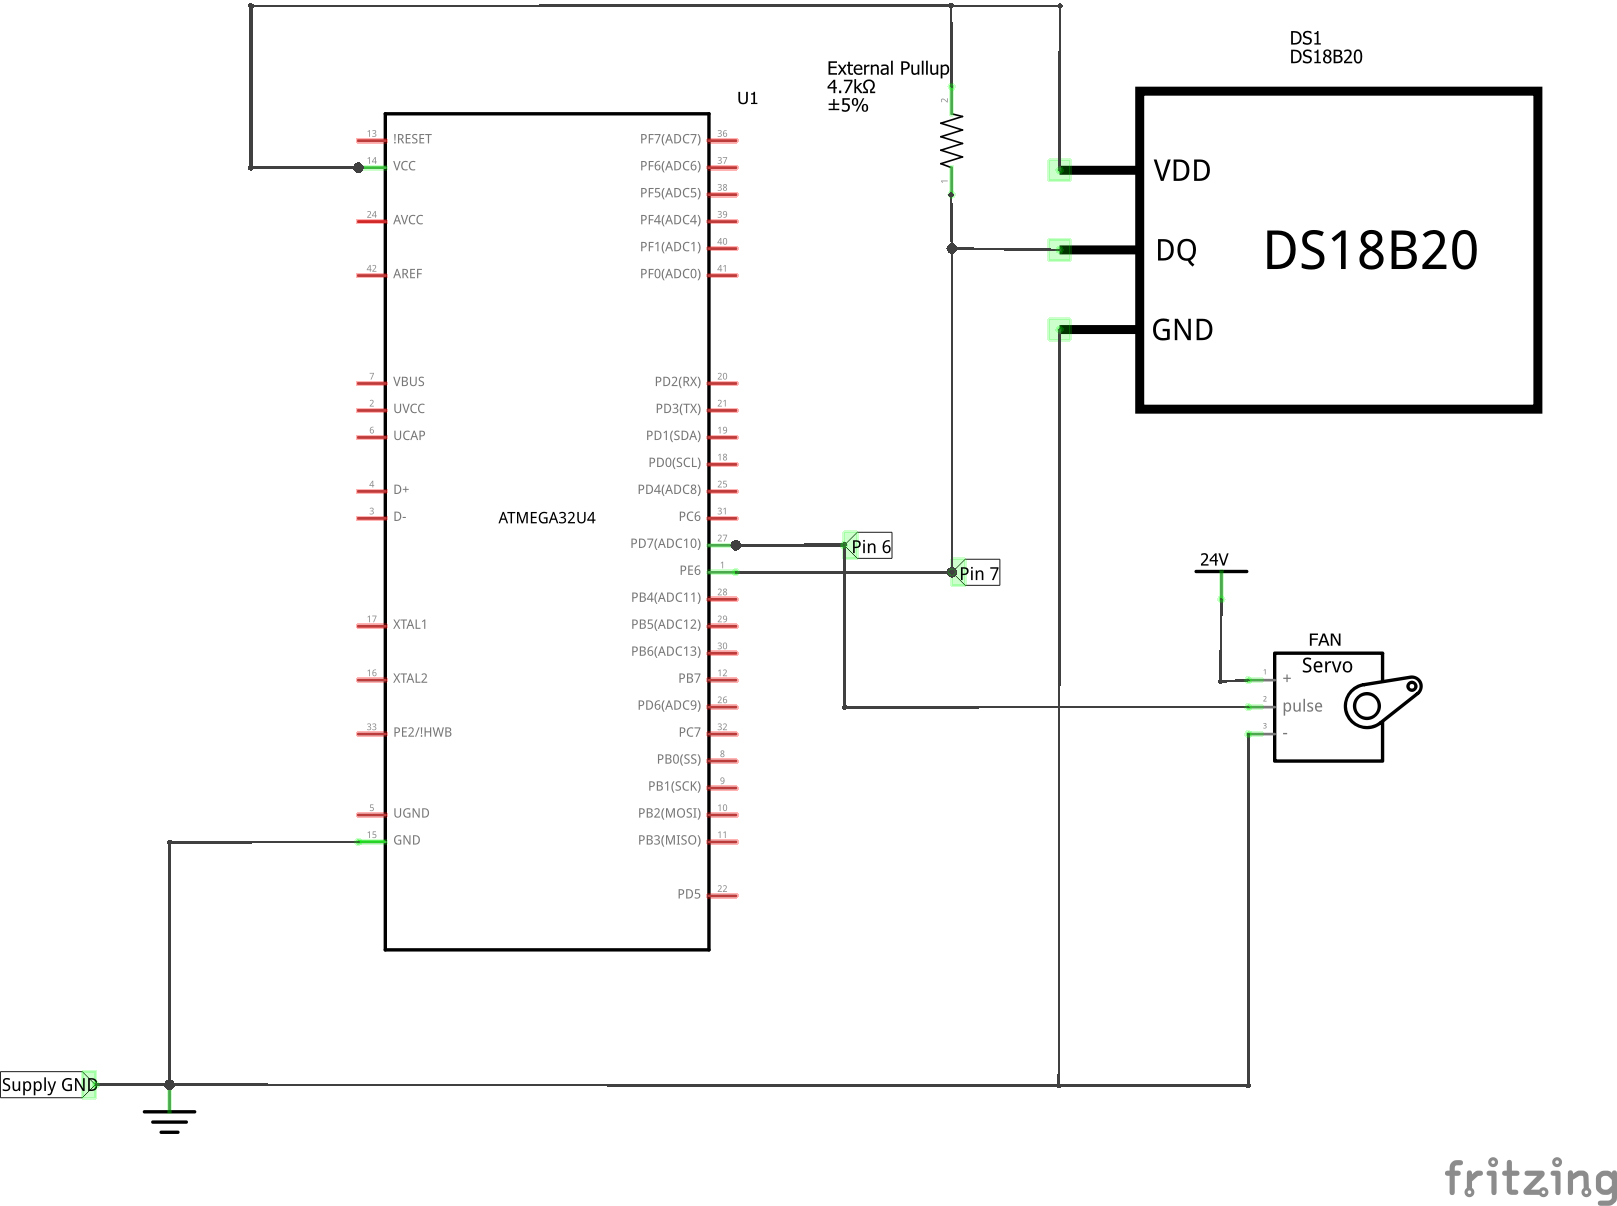
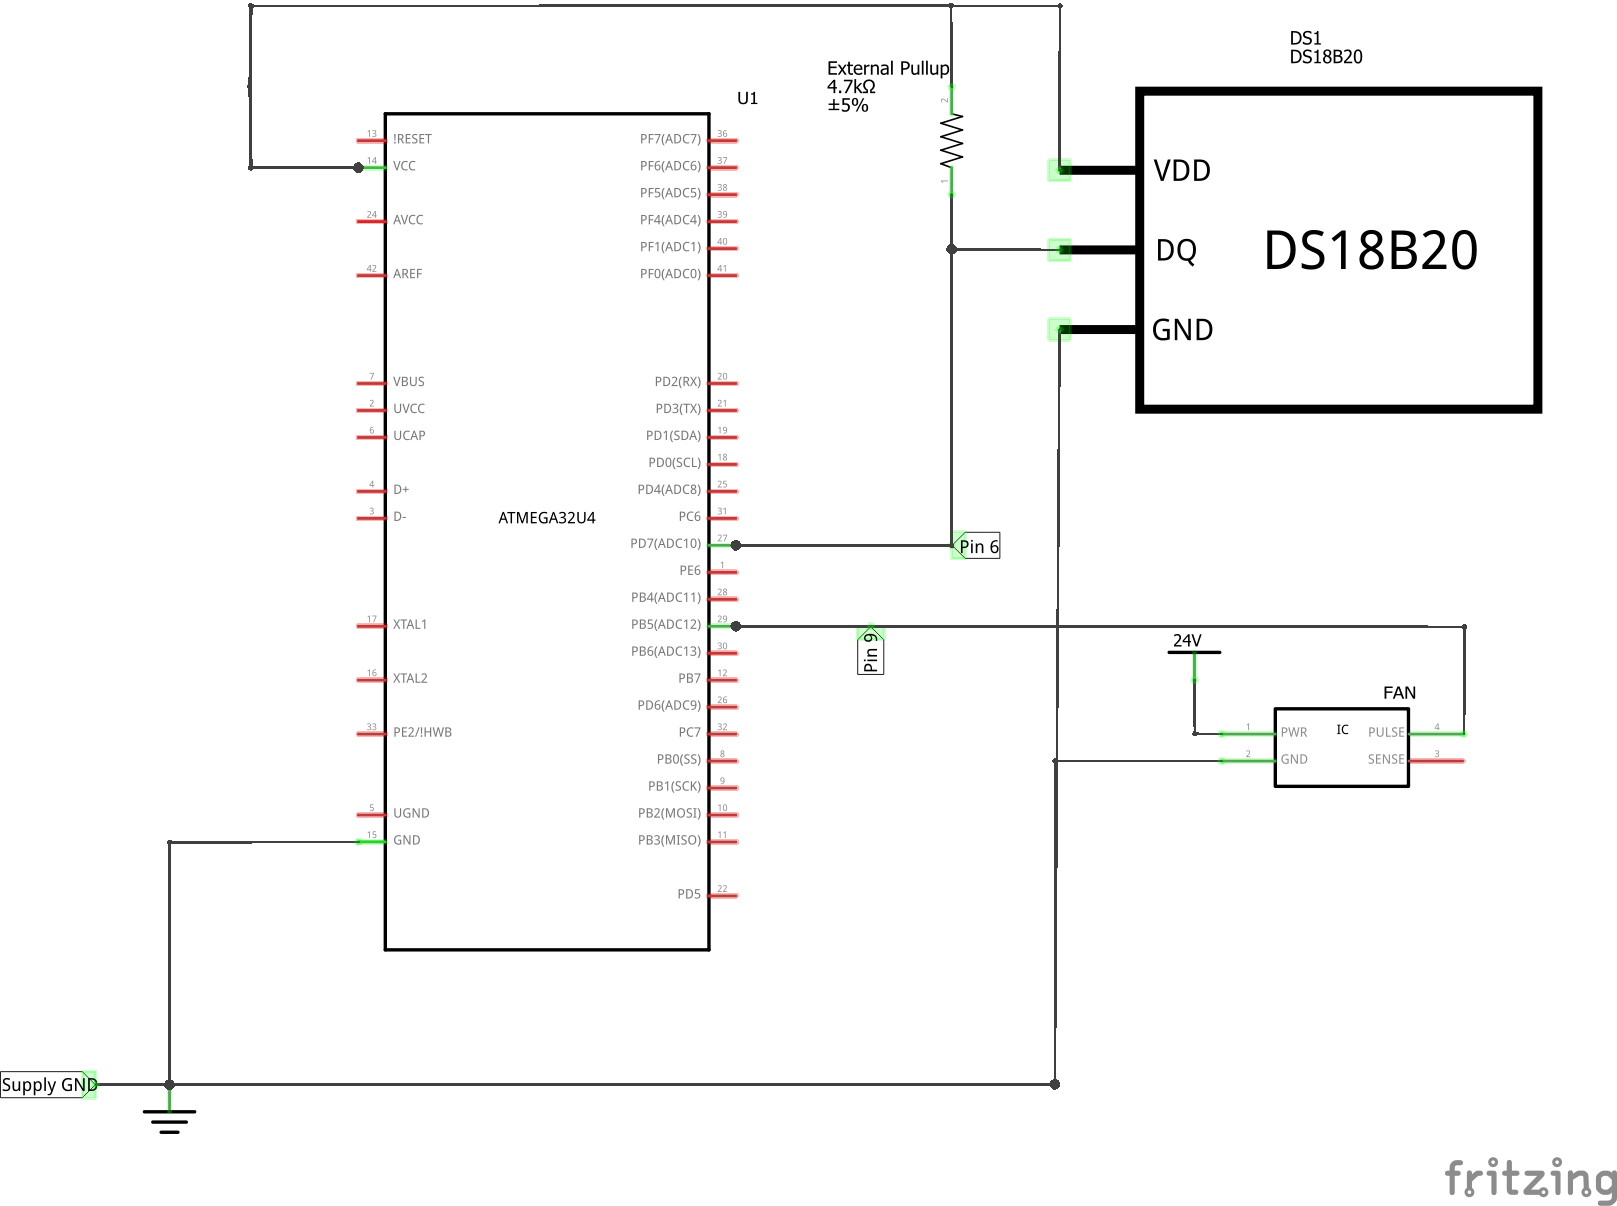
Updated schematic for new pinout

diff --git a/README.md b/README.md
@@ -25,7 +25,15 @@ https://github.com/PaulStoffregen/OneWire
     
     - Motor speeds range from 0-100% duty cycle (0-100)
 
-    -  Exposed parameters are defined at the top of the code
+    - Exposed parameters are defined at the top of the code
+
+3. Error Catching (In both cases, fan is turned off):
+
+    - When sensor's sense wire is disconnected from MCU
+
+    - When sensor itself is disconnected from ground
+
+4. No error catching for when sensor is disconnected from power
 
 ## Wiring Schematic:
 ![alt text](cooler_schem.png "Wiring Guide")
